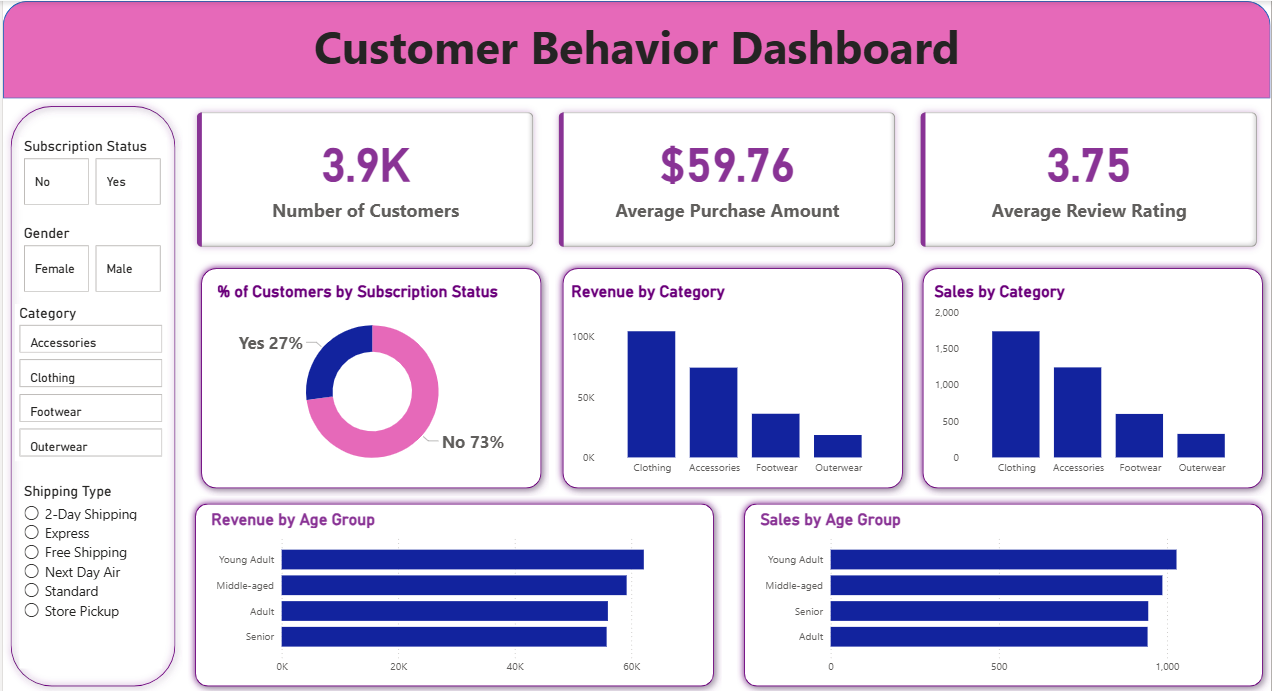
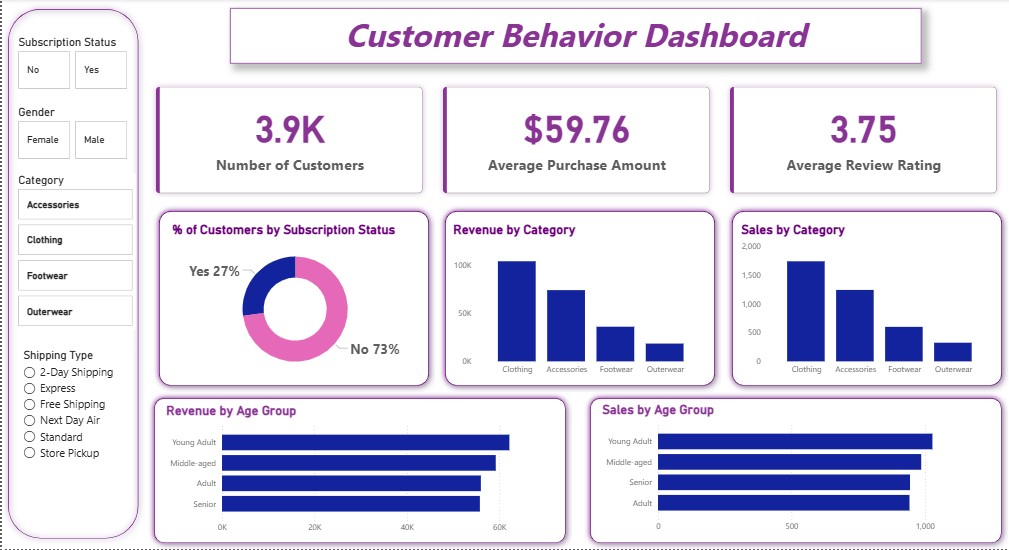
Shorten README, add LICENSE, update dashboard screenshot

diff --git a/README.md b/README.md
@@ -5,21 +5,17 @@
 ![Power BI](https://img.shields.io/badge/Power%20BI-Interactive%20Dashboard-F2C811?logo=powerbi&logoColor=black)
 ![License](https://img.shields.io/badge/License-MIT-green.svg)
 
-An end-to-end data analytics pipeline — **Python → SQL → Power BI** — analyzing 3,900 retail transactions to answer one question: *how can a retail company use its own shopping data to grow revenue, improve retention, and spend its marketing budget where it actually moves the needle?*
+An end-to-end data analytics pipeline — **Python → SQL → Power BI** — on 3,900 retail transactions, answering one question: *how can a retailer use its own shopping data to grow revenue, improve retention, and target its marketing budget correctly?*
 
 ### [**→ Open the Live Interactive Dashboard**](https://<your-username>.github.io/<your-repo>/)
 
-A cross-filterable dashboard (Plotly.js) — filter by gender, subscription, category, season, or shipping type and every KPI and chart recalculates instantly. No install required. *(That link is a placeholder — update it with your GitHub Pages URL once you've done the one-time setup in "Phase 4" below.)*
+Cross-filter by gender, subscription, category, season, or shipping type — every KPI and chart updates instantly, no install required. *(Placeholder link — update it with your GitHub Pages URL once "Phase 4" below is set up.)*
 
 ---
 
 ## Business Problem
 
-> A retail company wants to understand its customers' shopping behavior to improve sales, satisfaction, and long-term loyalty. Management has noticed shifts in purchasing patterns across demographics, product categories, and channels, and wants to know: **which factors — discounts, reviews, seasonality, payment method — actually drive purchase decisions and repeat business?**
-
-**Deliverables:** cleaned dataset, SQL-driven business analysis, an interactive Power BI dashboard, and a report translating both into concrete recommendations.
-
----
+> A retail company wants to understand its customers' shopping behavior to improve sales, satisfaction, and long-term loyalty, and needs to know: **which factors — discounts, reviews, seasonality, payment method — actually drive purchase decisions and repeat business?**
 
 ## Tech Stack
 
@@ -28,8 +24,7 @@ A cross-filterable dashboard (Plotly.js) — filter by gender, subscription, cat
 | Data cleaning & feature engineering | Python, pandas |
 | Database integration | SQLAlchemy (PostgreSQL / MySQL / SQL Server) |
 | Business analysis | SQL — aggregations, CTEs, window functions |
-| Visualization | Power BI |
-| Version control & docs | Git, Markdown |
+| Visualization | Power BI, Plotly.js |
 
 ## Dataset
 
@@ -37,8 +32,8 @@ A cross-filterable dashboard (Plotly.js) — filter by gender, subscription, cat
 |---|---|
 | **Rows** | 3,900 transactions |
 | **Columns** | 18 (demographics, purchase details, shopping behavior) |
-| **Missing data** | 37 nulls in `Review Rating` — imputed with each product category's median rating |
-| **Source** | Public retail customer-behavior dataset (included as `data/customer_shopping_behavior.csv`) |
+| **Missing data** | 37 nulls in `Review Rating` — imputed with each category's median |
+| **Source** | `data/customer_shopping_behavior.csv` |
 
 ---
 
@@ -53,70 +48,43 @@ flowchart LR
     E --> F["Report +\nrecommendations"]
 ```
 
-### Phase 1 — Python: Data Preparation (`Customer_Shopping_Behavior_Analysis.ipynb`)
-- Loaded and profiled the dataset (`.info()`, `.describe()`)
-- Imputed 37 missing `review_rating` values using the **median rating per category** (not a global median — avoids skew across very different product types)
-- Standardized column names to snake_case
-- Engineered `age_group` (quartile-based: Young Adult / Adult / Middle-aged / Senior) and `purchase_frequency_days` (mapped from categorical purchase frequency to a numeric day count)
-- Verified `discount_applied` and `promo_code_used` were redundant (100% match) and dropped the duplicate column
-- Loaded the cleaned table into a SQL database via SQLAlchemy (PostgreSQL, MySQL, and SQL Server connection code all included)
+**Phase 1 — Python** (`Customer_Shopping_Behavior_Analysis.ipynb`): profiled the data, imputed 37 missing `review_rating` values with each category's median, standardized columns to snake_case, engineered `age_group` (quartile bins) and `purchase_frequency_days`, dropped `promo_code_used` (100% redundant with `discount_applied`), and loaded the clean table into SQL via SQLAlchemy.
 
-### Phase 2 — SQL: Business Questions (`customer_behavior_sql_queries.sql`)
-Ten queries answering concrete business questions — revenue by gender, discount-using high spenders, top-rated products, shipping-type comparison, subscriber economics, discount-dependent products, customer segmentation, best sellers per category, repeat-buyer subscription rates, and revenue by age group. Uses `GROUP BY`, subqueries, `CASE` logic, and `ROW_NUMBER() OVER (PARTITION BY ...)` for top-N-per-group ranking.
+**Phase 2 — SQL** (`customer_behavior_sql_queries.sql`): 10 business questions using `GROUP BY`, subqueries, `CASE` logic, and `ROW_NUMBER() OVER (PARTITION BY ...)` — revenue by gender, discount-driven high spenders, top-rated products, shipping comparison, subscriber economics, segmentation, and more.
 
-### Phase 3 — Power BI: Interactive Dashboard (`Customer Behavior Dashboard.pbix`)
+**Phase 3 — Power BI** (`Customer Behavior Dashboard.pbix`): filterable by subscription, gender, category, and shipping type.
 
 ![Power BI Dashboard](assets/power_bi_dashboard.png)
 
-Filterable by subscription status, gender, category, and shipping type; surfaces revenue and order volume by category and age group, plus the subscriber/non-subscriber split.
-
-### Phase 4 — Live Interactive Dashboard (`docs/index.html`)
-
-A second, browser-based dashboard built with **Plotly.js** — no Power BI license needed to view it. Every KPI and chart (revenue by category, avg order value by segment, customer segments, top-rated products, seasonality, payment mix) recalculates live from five combinable filters. Runs entirely client-side; the full dataset is embedded in the page.
-
-**To make it a live public link (2 minutes, one-time):**
-1. Push this repo to GitHub.
-2. Go to **Settings → Pages**.
-3. Under "Build and deployment", set **Source: Deploy from a branch**, **Branch: main**, **Folder: /docs** → **Save**.
-4. GitHub gives you a URL like `https://<your-username>.github.io/<repo-name>/` — put that in the link at the top of this README and in your LinkedIn post.
-
-Until then, open `docs/index.html` directly in any browser to try it locally — double-click the file, no server needed.
+**Phase 4 — Live Dashboard** (`docs/index.html`): browser-based version built with Plotly.js — same KPIs, fully interactive, no Power BI license needed, dataset embedded client-side. **To go live:** push to GitHub → Settings → Pages → Deploy from branch `main`, folder `/docs` → you get a `github.io` URL. Until then, just open `docs/index.html` directly — no server needed.
 
 ---
 
 ## Key Insights — What Actually Moves Revenue
 
-All numbers below are computed directly from `data/customer_shopping_behavior.csv` using the same logic as the SQL file — fully reproducible from this repo.
+Computed directly from the raw dataset using the same logic as the SQL file — fully reproducible from this repo.
 
 ![Key Insights Dashboard](assets/key_insights_dashboard.png)
 
-**1. Category mix, not customer segment, is the biggest lever.**
-Clothing (45% · $104K) and Accessories (32% · $74K) alone generate **77% of total revenue** ($233K across 3,900 orders). Footwear and Outerwear combined are the remaining 23%.
+1. **Category mix is the real lever.** Clothing (45% · $104K) + Accessories (32% · $74K) = **77% of revenue**; Footwear and Outerwear split the remaining 23%.
 
-**2. The subscription program isn't buying bigger baskets.**
-Subscribers spend **$59.49/order** on average; non-subscribers spend **$59.87** — statistically flat, and directionally the *opposite* of what a "subscriber premium" story would predict. Subscribers also generate only 27% of total revenue despite being the "loyalty" tier. Repeat buyers (>5 previous purchases) subscribe at 27.6% — essentially the same as the 27.0% baseline rate. **The subscription perk isn't correlated with higher spend or higher loyalty engagement.** (Data quirk worth flagging: 100% of subscribers in this dataset are male — 0 of 1,248 female customers are subscribers — so this comparison is effectively subscriber vs. non-subscriber *men*; there's no female-subscriber data to compare against.)
+2. **Subscription doesn't buy bigger baskets.** $59.49/order for subscribers vs. **$59.87** for non-subscribers — flat, if not slightly negative. Subscribers generate only 27% of revenue, and repeat buyers (>5 purchases) subscribe at 27.6% — barely above the 27.0% base rate. *(100% of subscribers in this dataset are male, so this is really a men-vs-men comparison.)*
 
-**3. The gender revenue gap is a mix effect, not a behavior effect.**
-Male customers generate 68% of revenue ($157,890) vs. 32% for female customers ($75,191) — but that's because 68% of the customer base is male. Average order value is nearly identical: **$59.54 (male) vs. $60.25 (female)**. Reading the top-line revenue split as a spending-behavior difference would be a mistake.
+3. **The gender revenue gap is a mix effect, not a behavior effect.** Men generate 68% of revenue simply because 68% of customers are men — average order value is nearly identical ($59.54 vs. $60.25).
 
-**4. Discount usage is broad — but one segment stands out.**
-43% of all purchases use a discount, and the top 5 discount-reliant products (Hat, Sneakers, Coat, Sweater, Pants) sit at 47–50%. But 839 customers (22% of the base) used a discount and *still* spent **$79.79/order — 34% above the $59.76 overall average**. That's a distinct high-value segment hiding inside the "discount shopper" label.
+4. **Discounting is broad, but one segment stands out.** 43% of orders use a discount; the top 5 discount-reliant products sit at 47–50%. But 839 customers (22%) discount *and* still spend **$79.79/order — 34% above average**.
 
-**5. Shipping speed, age, and season are weak differentiators.**
-Express-shipping orders average only 3.5% more than Standard ($60.48 vs. $58.46). Revenue is nearly flat across age quartiles (range: $55.8K–$62.1K, an 11% spread) and across seasons (range: $55.8K–$60.0K, a 7.6% spread). None of these three are strong targeting variables on their own.
+5. **Shipping speed, age, and season barely move order value.** Express is only 3.5% above Standard; age-group revenue spans just 11%; season spans 7.6%.
 
-**6. The current Loyal/Returning/New split is too generous to be actionable.**
-Using this project's segmentation rule (New = 1 prior purchase, Returning = 2–10, Loyal = everything else), **80% of customers already qualify as "Loyal."** That's a sign the thresholds need re-cutting — e.g., quantile-based or RFM-style segmentation — before this segment can drive targeted retention campaigns.
-
----
+6. **The Loyal/Returning/New split is too generous to be useful.** 80% of customers already count as "Loyal" under the current rule (>10 previous purchases) — needs re-cutting (RFM or quantile-based) before it can drive targeting.
 
 ## Business Recommendations
 
-1. **Concentrate merchandising and ad spend on Clothing + Accessories** — these two categories already drive 77% of revenue; treat Footwear/Outerwear as secondary.
-2. **Redesign the subscription offer, don't just promote it harder** — current subscribers show no lift in order value and repeat buyers are no more likely to subscribe than average. The perk itself (not the marketing of it) needs to change — e.g., tiered free shipping, early access to Clothing/Accessories drops, birthday offers.
-3. **Build a targeted offer for the "high-value discount" segment** — the 839 customers who redeem discounts yet still spend 34% above average are a distinct, high-LTV group; give them a dedicated tier instead of running the same blanket discount as everyone else.
-4. **Re-cut customer segmentation before using it for targeting** — an 80/18/2 Loyal/Returning/New split isn't actionable; rebuild it with quantile or RFM-based thresholds to isolate a real top tier.
-5. **Deprioritize age, season, and shipping-speed as targeting variables** — none moves average order value by more than ~11%; reallocate that campaign budget toward the category and discount-segment levers above.
+1. **Concentrate spend on Clothing + Accessories** — 77% of revenue lives there.
+2. **Redesign the subscription perk, don't just promote it** — no measurable lift in order value or loyalty today.
+3. **Build a tier for high-value discount users** — the 839 customers spending 34% above average despite discounting.
+4. **Re-cut segmentation with RFM or quantiles** — the current 80/18/2 split isn't actionable.
+5. **Deprioritize age/season/shipping-speed targeting** — none moves order value by more than ~11%.
 
 ---
 
@@ -133,45 +101,31 @@ customer-trends-data-analysis-SQL-Python-PowerBI/
 ├── Customer Shopping Behavior Analysis.pdf     # Written project report
 ├── requirements.txt                            # Python dependencies
 ├── .env.example                                # Database credential template (no real secrets)
-├── docs/
-│   └── index.html                              # Live interactive dashboard (Plotly.js, GitHub Pages-ready)
-├── assets/
-│   ├── power_bi_dashboard.png                  # Dashboard screenshot
-│   └── key_insights_dashboard.png              # Key-metrics summary chart
+├── docs/index.html                             # Live interactive dashboard (Plotly.js, GitHub Pages-ready)
+├── assets/                                     # Dashboard screenshot + key-insights chart
+├── LICENSE                                     # MIT License
 └── README.md
 ```
-
----
 
 ## How to Reproduce
 
 ```bash
-# 1. Clone
 git clone https://github.com/<your-username>/customer-trends-data-analysis-SQL-Python-PowerBI.git
 cd customer-trends-data-analysis-SQL-Python-PowerBI
-
-# 2. Install dependencies
 python -m venv venv && source venv/bin/activate   # Windows: venv\Scripts\activate
 pip install -r requirements.txt
-
-# 3. Configure database credentials (never hardcode these)
-cp .env.example .env
-# edit .env with your local PostgreSQL / MySQL / SQL Server credentials, then:
-export $(cat .env | xargs)                        # macOS/Linux
-# or set them as System Environment Variables on Windows
+cp .env.example .env   # fill in your DB credentials, then export them (never hardcode)
 ```
 
-1. Open `Customer_Shopping_Behavior_Analysis.ipynb` and run all cells (choose the PostgreSQL, MySQL, or SQL Server section that matches your database).
+1. Run `Customer_Shopping_Behavior_Analysis.ipynb` top to bottom (pick the PostgreSQL/MySQL/SQL Server section that matches your database).
 2. Run `customer_behavior_sql_queries.sql` against the resulting `customer` table.
-3. Open `Customer Behavior Dashboard.pbix` in Power BI Desktop and point it at your database to refresh.
+3. Open `Customer Behavior Dashboard.pbix` in Power BI Desktop and refresh against your database.
 
 ---
 
 ## Skills Demonstrated
 
-Data cleaning & missing-value imputation strategy · feature engineering (binning, categorical-to-numeric mapping) · relational database integration across 3 engines via SQLAlchemy · SQL (CTEs, window functions, subqueries, conditional aggregation) · Power BI dashboard design · credential hygiene (env-based config) · data storytelling · translating query output into business recommendations.
-
----
+Data cleaning & missing-value imputation · feature engineering · relational DB integration across 3 engines via SQLAlchemy · SQL (CTEs, window functions, conditional aggregation) · Power BI & Plotly.js dashboarding · credential hygiene (env-based config) · data storytelling · business recommendation writing.
 
 ## License
 
@@ -183,4 +137,4 @@ This project is licensed under the MIT License — see [`LICENSE`](LICENSE) for 
 LinkedIn: `linkedin.com/in/saleh-mahbub-aa717b159`
 `salehmahbub8@gmail.com`
 
-*If you spot something in the analysis worth pushing back on, open an issue — that's the kind of feedback that makes a portfolio project actually useful.*
+*If you spot something in the analysis worth pushing back on, open an issue.*
